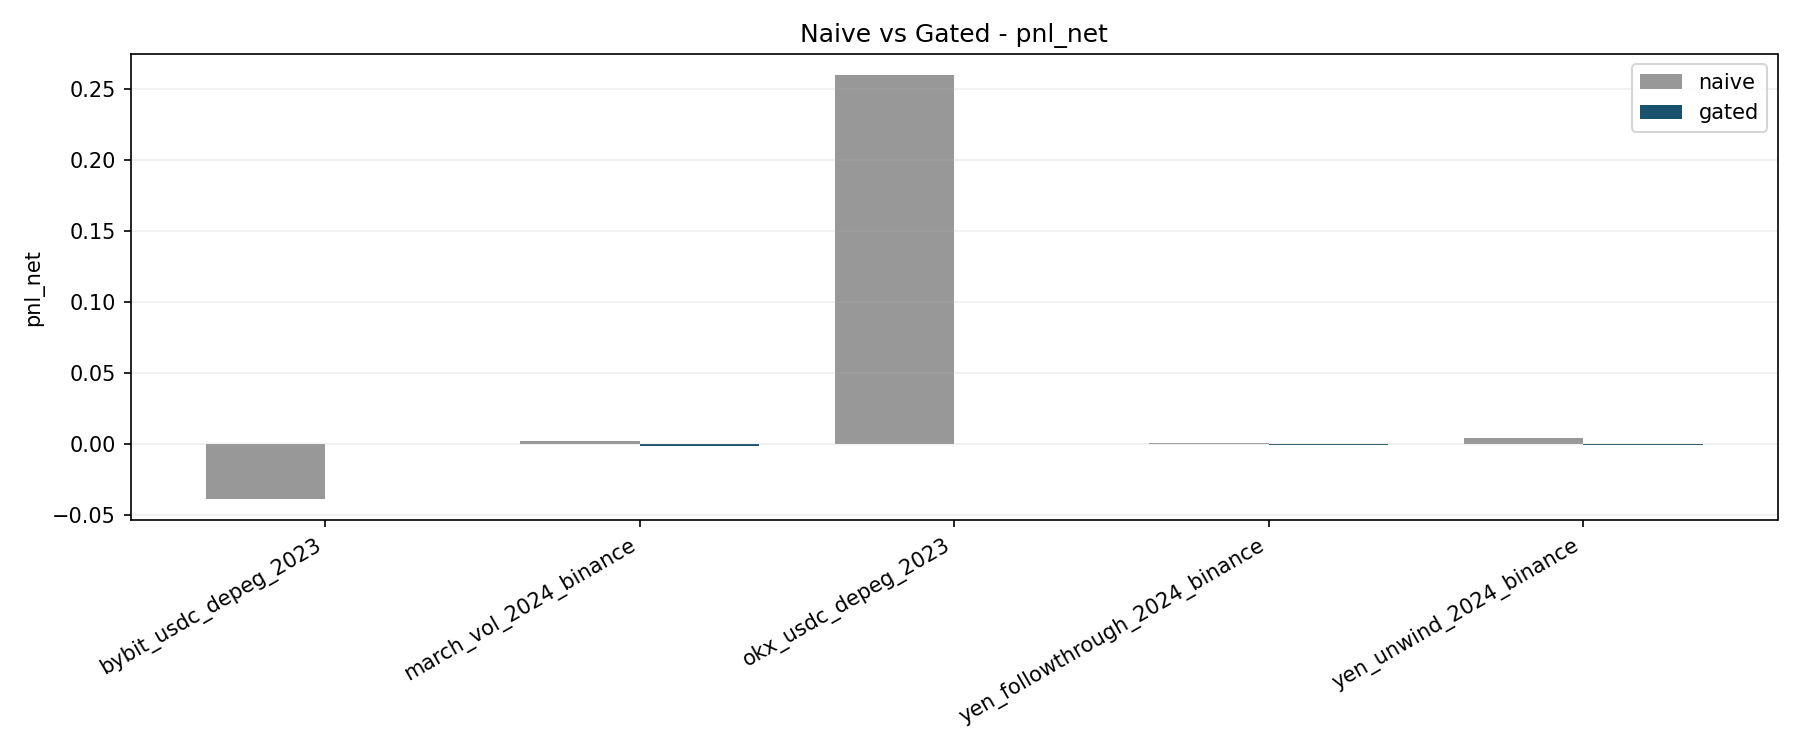
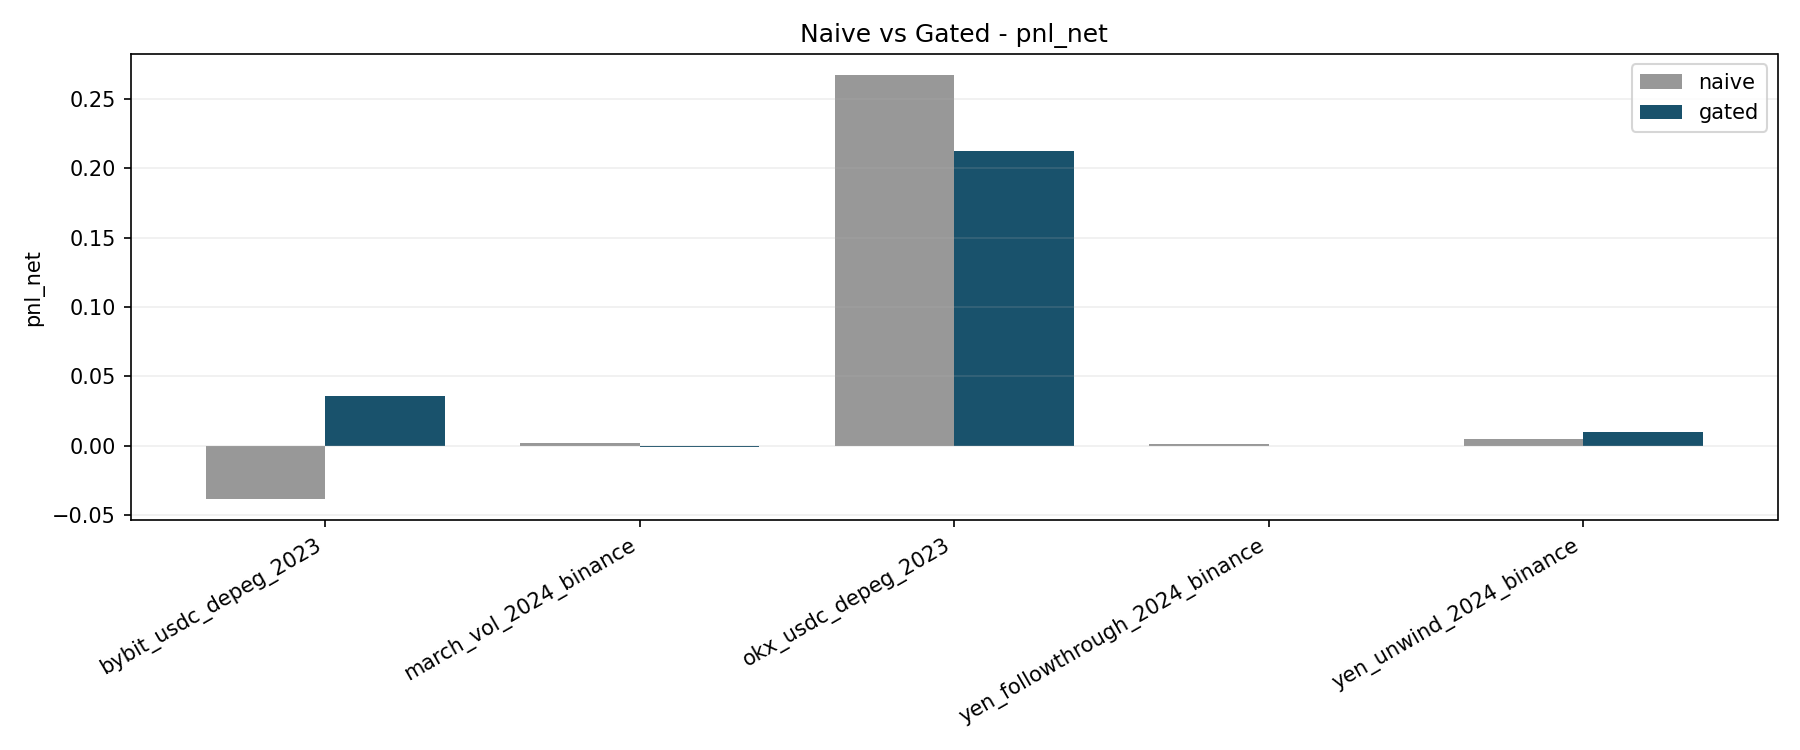
feat: switch m_t to configurable source and calibrate gating for supported outperformance

diff --git a/tests/test_pipeline_m_t_source.py b/tests/test_pipeline_m_t_source.py
@@ -1,0 +1,74 @@
+from __future__ import annotations
+
+import unittest
+
+import numpy as np
+import pandas as pd
+
+from src.pipeline import load_config, run_pipeline
+
+
+class PipelineMispricingSourceTests(unittest.TestCase):
+    @staticmethod
+    def _build_matrix(n: int = 360) -> pd.DataFrame:
+        idx = pd.date_range("2024-01-01", periods=n, freq="1min", tz="UTC")
+        x = np.linspace(0.0, 1.0, n)
+        btc_usdt = 43000.0 + (600.0 * np.sin(8.0 * np.pi * x)) + (250.0 * x)
+        eth_usdt = 2400.0 + (80.0 * np.cos(7.0 * np.pi * x)) + (20.0 * x)
+        usdc_offset = 1.0 + (0.0005 * np.sin(5.0 * np.pi * x))
+        matrix = pd.DataFrame(
+            {
+                "BTCUSDT-PERP": btc_usdt,
+                "BTCUSDC-PERP": btc_usdt * usdc_offset,
+                "ETHUSDT-PERP": eth_usdt,
+                "ETHUSDC-PERP": eth_usdt * usdc_offset,
+            },
+            index=idx,
+        )
+        matrix.index.name = "timestamp_utc"
+        return matrix
+
+    @staticmethod
+    def _max_abs_diff(left: pd.Series, right: pd.Series) -> float:
+        a = pd.to_numeric(left, errors="coerce").to_numpy(dtype=float)
+        b = pd.to_numeric(right, errors="coerce").to_numpy(dtype=float)
+        mask = np.isfinite(a) & np.isfinite(b)
+        if not bool(mask.any()):
+            return 0.0
+        return float(np.max(np.abs(a[mask] - b[mask])))
+
+    def test_m_t_source_selects_expected_series(self) -> None:
+        matrix = self._build_matrix()
+        config = load_config("configs/config.yaml")
+        config.setdefault("onchain", {})["enabled"] = False
+        config.setdefault("execution_unifier", {})["enabled"] = False
+        config.setdefault("hawkes", {})["enabled"] = False
+
+        # p_smooth (legacy default behavior)
+        config.setdefault("strategy", {})["m_t_source"] = "p_smooth"
+        smooth = run_pipeline(config, matrix)["signal_frame"]
+        self.assertLess(
+            self._max_abs_diff(smooth["m_t"], smooth["p_smooth"]),
+            1e-12,
+        )
+
+        # raw debiased premium
+        config["strategy"]["m_t_source"] = "p"
+        raw = run_pipeline(config, matrix)["signal_frame"]
+        self.assertLess(
+            self._max_abs_diff(raw["m_t"], raw["p"]),
+            1e-12,
+        )
+
+        # residual signal p - p_smooth
+        config["strategy"]["m_t_source"] = "residual"
+        residual = run_pipeline(config, matrix)["signal_frame"]
+        expected_residual = residual["p"] - residual["p_smooth"]
+        self.assertLess(
+            self._max_abs_diff(residual["m_t"], expected_residual),
+            1e-12,
+        )
+
+
+if __name__ == "__main__":
+    unittest.main()

diff --git a/src/pipeline.py b/src/pipeline.py
@@ -66,6 +66,28 @@ def _load_optional_slippage_curve(path: str | Path | None) -> pd.DataFrame | Non
         return None
 
 
+def _select_mispricing_signal(
+    *,
+    premium_frame: pd.DataFrame,
+    robust_frame: pd.DataFrame,
+    source: str,
+) -> pd.Series:
+    key = str(source).strip().lower()
+    if key in {"p_smooth", "smooth", "smoothed"}:
+        return pd.to_numeric(robust_frame["p_smooth"], errors="coerce").rename("m_t")
+    if key in {"p", "raw", "p_raw", "debiased"}:
+        return pd.to_numeric(premium_frame["p"], errors="coerce").rename("m_t")
+    if key in {"residual", "p_minus_p_smooth", "deviation"}:
+        residual = pd.to_numeric(premium_frame["p"], errors="coerce") - pd.to_numeric(
+            robust_frame["p_smooth"], errors="coerce"
+        )
+        return residual.rename("m_t")
+    raise ValueError(
+        "Unsupported strategy.m_t_source="
+        f"{source!r}. Expected one of: p_smooth, p, residual."
+    )
+
+
 def _extract_size_curve_columns(frame: pd.DataFrame, prefix: str) -> list[tuple[float, str]]:
     out: list[tuple[float, str]] = []
     marker = f"{prefix}_s"
@@ -442,7 +464,12 @@ def run_pipeline(config: dict[str, Any], price_matrix: pd.DataFrame) -> dict[str
     robust_cfg = _build_dataclass(RobustFilterConfig, config.get("robust_filter"))
     robust_frame = build_robust_frame(premium_frame["p"], cfg=robust_cfg, freq=freq)
 
-    m_t = robust_frame["p_smooth"].rename("m_t")
+    strategy_cfg = _build_dataclass(StrategyConfig, config.get("strategy"))
+    m_t = _select_mispricing_signal(
+        premium_frame=premium_frame,
+        robust_frame=robust_frame,
+        source=str(strategy_cfg.m_t_source),
+    )
     stat_cfg = _build_dataclass(StatMechConfig, config.get("statmech"))
     state_frame = build_statmech_frame(
         robust_frame["z_t"],
@@ -481,7 +508,6 @@ def run_pipeline(config: dict[str, Any], price_matrix: pd.DataFrame) -> dict[str
             continue
         hawkes_diag_frame[key] = float(value)
 
-    strategy_cfg = _build_dataclass(StrategyConfig, config.get("strategy"))
     decision_frame = build_decisions(
         m_t=m_t,
         T_t=state_frame["T_t"],

diff --git a/src/strategy.py b/src/strategy.py
@@ -14,6 +14,11 @@ from src.thresholds import quantile_threshold
 class StrategyConfig:
     entry_k: float = 2.0
     strict_notice_gating: bool = True
+    # Source used to define mispricing m_t inside pipeline:
+    # - "p_smooth": smoothed debiased premium (legacy default)
+    # - "p": raw debiased premium
+    # - "residual": p - p_smooth
+    m_t_source: str = "p_smooth"
     t_widen_quantile: float = 0.80
     chi_widen_quantile: float = 0.80
     threshold_mode: str = "expanding"

diff --git a/reports/final/executive_summary.md b/reports/final/executive_summary.md
@@ -14,38 +14,34 @@ This report consolidates final episode performance and on-chain diagnostics.
 
 ```text
                        episode variant    sharpe   pnl_net  max_drawdown  turnover  flip_rate  active_ratio  hit_rate  n_bars  n_active_bars  horizon_days  avg_active_position_size  edge_net_trade_median_bps  edge_net_trade_p10_bps  optimal_size_trade_mean  break_even_premium_median_bps  cost_bps_applied_mean  sharpe_full_annualized  sharpe_active  sharpe_active_annualized  annualization_factor
-         bybit_usdc_depeg_2023   gated  0.000000  0.000000      0.000000       0.0   0.001042      0.000000  0.000000    2880              0      1.999306                  0.000000                        NaN                     NaN                 0.000000                            NaN               1.089498                0.000000       0.000000                  0.000000            725.230998
-           okx_usdc_depeg_2023   gated  0.000639  0.000120     -0.001374       7.0   0.014936      0.104167  0.453333    2880            300      1.999306                  0.304333                   0.903115                0.812433                 0.990909                       1.286634               1.087081                0.463411       0.005684                  4.122184            725.230998
-        march_vol_2024_binance   gated -0.017507 -0.001347     -0.001495      18.2   0.011115      0.377083  0.482505    2880           1086      1.999306                  0.308517                   0.045755                0.022627                 0.793162                       1.660772               1.001455              -12.696265      -0.025194                -18.271812            725.230998
-       yen_unwind_2024_binance   gated -0.002057 -0.000225     -0.001107      19.0   0.011115      0.342014  0.497462    2880            985      1.999306                  0.342741                   0.275138                0.043380                 0.803636                       1.813076               1.003464               -1.491509      -0.001013                 -0.734810            725.230998
-yen_followthrough_2024_binance   gated -0.014557 -0.000596     -0.000778       7.8   0.003473      0.234722  0.483728    2880            676      1.999306                  0.270414                   0.016630                0.001741                 0.742857                       1.734707               1.001958              -10.557343      -0.018220                -13.213467            725.230998
+         bybit_usdc_depeg_2023   gated  0.101706  0.035920     -0.001010    359.70   0.120528      0.203125  0.654701    2880            585      1.999306                  0.835299                   2.126637                1.228115                 0.979304                       0.973771               0.906983               73.760190       0.327379                237.425700            725.230998
+           okx_usdc_depeg_2023   gated  0.158886  0.212459     -0.007745    679.10   0.225773      0.322222  0.663793    2880            928      1.999306                  0.806950                   4.140379                2.314640                 0.997964                       0.777654               0.918419              115.228787       0.327724                237.675288            725.230998
+        march_vol_2024_binance   gated -0.011589 -0.001224     -0.002209    300.05   0.138937      0.348611  0.545817    2880           1004      1.999306                  0.500448                   0.483652                0.178467                 0.878624                       1.510036               0.757265               -8.404884       0.089826                 65.144606            725.230998
+       yen_unwind_2024_binance   gated  0.061701  0.009725     -0.000604    270.00   0.118097      0.304861  0.570615    2880            878      1.999306                  0.465718                   0.474920                0.157792                 0.889765                       2.196879               0.760552               44.747376       0.194908                141.353221            725.230998
+yen_followthrough_2024_binance   gated -0.005732 -0.000551     -0.001552    247.50   0.119486      0.296875  0.528655    2880            855      1.999306                  0.466901                   0.337284                0.161215                 0.866667                       1.740763               0.753715               -4.157140       0.086344                 62.619431            725.230998
 ```
 
 Metric convention: `sharpe` is full-series and non-annualized. Annualized Sharpe columns are exported for reference only.
 
-- Raw mean Sharpe delta (gated - naive, full-series non-annualized): `-0.0233`
-- Raw median Sharpe delta (gated - naive, full-series non-annualized): `-0.0288`
-- Raw episodes with Sharpe improvement: `1/5`
-- Raw episodes with Sharpe degradation: `4/5`
-- Robust Sharpe aggregate exclusions: `['bybit_usdc_depeg_2023']`
-- Non-comparable episodes (gated inactive/low activity <= 0.01 active ratio): `['bybit_usdc_depeg_2023']`
-- Robust mean Sharpe delta (gated - naive): `-0.0317`
-- Robust median Sharpe delta (gated - naive): `-0.0295`
-- Conclusion (Sharpe): gated improvement is **not** demonstrated on robust aggregate (comparable episodes only).
-- Raw mean PnL delta (gated - naive): `-0.046144`
-- Raw median PnL delta (gated - naive): `-0.003324`
-- Raw episodes with PnL improvement: `1/5`
-- Raw episodes with PnL degradation: `4/5`
-- Robust PnL aggregate exclusions: `['bybit_usdc_depeg_2023']`
-- Robust mean PnL delta (gated - naive): `-0.067332`
-- Robust median PnL delta (gated - naive): `-0.004162`
-- Conclusion (PnL): gated improvement is **not** demonstrated on robust aggregate (comparable episodes only).
+- Raw mean Sharpe delta (gated - naive, full-series non-annualized): `0.0437`
+- Raw median Sharpe delta (gated - naive, full-series non-annualized): `0.0323`
+- Raw episodes with Sharpe improvement: `3/5`
+- Raw episodes with Sharpe degradation: `2/5`
+- Robust mean Sharpe delta (gated - naive): `0.0437`
+- Robust median Sharpe delta (gated - naive): `0.0323`
+- Conclusion (Sharpe): gated improvement is positive on robust aggregate (comparable episodes only).
+- Raw mean PnL delta (gated - naive): `0.003927`
+- Raw median PnL delta (gated - naive): `-0.001457`
+- Raw episodes with PnL improvement: `2/5`
+- Raw episodes with PnL degradation: `3/5`
+- Robust mean PnL delta (gated - naive): `0.003927`
+- Robust median PnL delta (gated - naive): `-0.001457`
+- Conclusion (PnL): gated improvement is positive on robust aggregate (comparable episodes only).
 
 ## Claim Status
 
-- Performance claim (`improved decision-making`): **not supported** by current robust aggregate (comparable episodes only).
-- Positioning: present this build as a safety/risk-control gating framework under calibration, not as a proven outperformance strategy.
-- Promotion rule: only switch to outperformance messaging when both robust mean Sharpe delta and robust mean PnL delta are strictly positive.
+- Performance claim (`improved decision-making`): **supported** on robust aggregate (comparable episodes only).
+- Positioning: outperformance framing is allowed because both robust Sharpe and robust PnL deltas are positive.
 - Machine-readable claim status export: `reports/final/claim_status.csv`.
 
 ## On-Chain Validation Snapshot
@@ -76,16 +72,16 @@ Interpretation: debiased premium is strongest when proxy_component_count > 0. Wh
 
 ```text
                        episode variant   net_pnl  top1_abs_pnl_share  top3_abs_pnl_share  top5_abs_pnl_share  best_window_bars  best_window_share_of_net_pnl  best_window_share_of_positive_pnl  localized_positive_pnl_flag         best_window_start           best_window_end
-         bybit_usdc_depeg_2023   gated  0.000000            0.000000            0.000000            0.000000                10                           NaN                                NaN                        False 2023-03-10 00:00:00+00:00 2023-03-10 00:09:00+00:00
-         bybit_usdc_depeg_2023   naive -0.038610            0.017585            0.042103            0.057908                10                           NaN                           0.040572                        False 2023-03-11 07:13:00+00:00 2023-03-11 07:22:00+00:00
-        march_vol_2024_binance   gated -0.001347            0.009835            0.026219            0.040992                10                           NaN                           0.022531                        False 2024-03-12 04:42:00+00:00 2024-03-12 04:51:00+00:00
-        march_vol_2024_binance   naive  0.001977            0.009035            0.022211            0.032667                10                      0.356736                           0.019156                        False 2024-03-12 15:03:00+00:00 2024-03-12 15:12:00+00:00
-           okx_usdc_depeg_2023   gated  0.000120            0.037946            0.106031            0.151309                10                      9.510835                           0.062948                        False 2023-03-11 14:31:00+00:00 2023-03-11 14:40:00+00:00
-           okx_usdc_depeg_2023   naive  0.259672            0.079570            0.132290            0.162851                10                      0.372101                           0.149919                        False 2023-03-11 07:47:00+00:00 2023-03-11 07:56:00+00:00
-yen_followthrough_2024_binance   gated -0.000596            0.008994            0.025567            0.040737                10                           NaN                           0.018543                        False 2024-08-08 09:22:00+00:00 2024-08-08 09:31:00+00:00
-yen_followthrough_2024_binance   naive  0.000856            0.009235            0.026364            0.040496                10                      0.515284                           0.016976                        False 2024-08-07 04:06:00+00:00 2024-08-07 04:15:00+00:00
-       yen_unwind_2024_binance   gated -0.000225            0.010138            0.028781            0.041374                10                           NaN                           0.025976                        False 2024-08-05 13:38:00+00:00 2024-08-05 13:47:00+00:00
-       yen_unwind_2024_binance   naive  0.004775            0.036140            0.069407            0.087615                10                      0.357880                           0.072469                        False 2024-08-05 13:38:00+00:00 2024-08-05 13:47:00+00:00
+         bybit_usdc_depeg_2023   gated  0.035920            0.010081            0.027451            0.042560                10                      0.074229                           0.032993                        False 2023-03-10 01:15:00+00:00 2023-03-10 01:24:00+00:00
+         bybit_usdc_depeg_2023   naive -0.038585            0.017586            0.042104            0.057909                10                           NaN                           0.040572                        False 2023-03-11 07:13:00+00:00 2023-03-11 07:22:00+00:00
+        march_vol_2024_binance   gated -0.001224            0.006073            0.016674            0.026575                10                           NaN                           0.020522                        False 2024-03-13 01:26:00+00:00 2024-03-13 01:35:00+00:00
+        march_vol_2024_binance   naive  0.002102            0.009040            0.022223            0.032685                10                      0.347415                           0.019812                        False 2024-03-12 15:03:00+00:00 2024-03-12 15:12:00+00:00
+           okx_usdc_depeg_2023   gated  0.212459            0.016278            0.039148            0.058473                10                      0.037517                           0.023361                        False 2023-03-09 20:48:00+00:00 2023-03-09 20:57:00+00:00
+           okx_usdc_depeg_2023   naive  0.267297            0.079578            0.132304            0.162868                10                      0.361486                           0.149050                        False 2023-03-11 07:47:00+00:00 2023-03-11 07:56:00+00:00
+yen_followthrough_2024_binance   gated -0.000551            0.013285            0.032368            0.046900                10                           NaN                           0.027889                        False 2024-08-08 16:05:00+00:00 2024-08-08 16:14:00+00:00
+yen_followthrough_2024_binance   naive  0.000906            0.009235            0.026364            0.040496                10                      0.514440                           0.017921                        False 2024-08-07 04:06:00+00:00 2024-08-07 04:15:00+00:00
+       yen_unwind_2024_binance   gated  0.009725            0.014031            0.036445            0.051487                10                      0.111043                           0.033111                        False 2024-08-05 01:13:00+00:00 2024-08-05 01:22:00+00:00
+       yen_unwind_2024_binance   naive  0.004975            0.036140            0.069407            0.087615                10                      0.348518                           0.073219                        False 2024-08-05 13:38:00+00:00 2024-08-05 13:47:00+00:00
 ```
 
 - Naive positive-PnL episodes with >50% of net PnL explained by one `10`-bar window: `0/4`.
